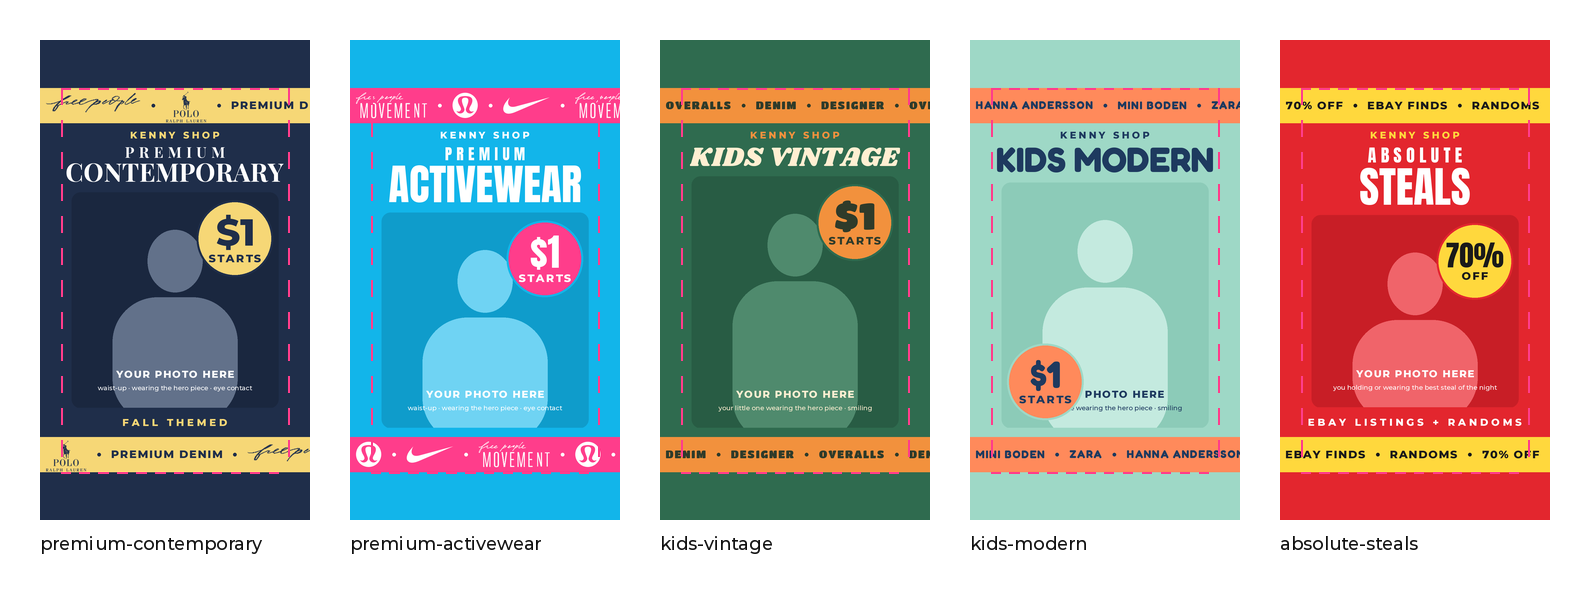
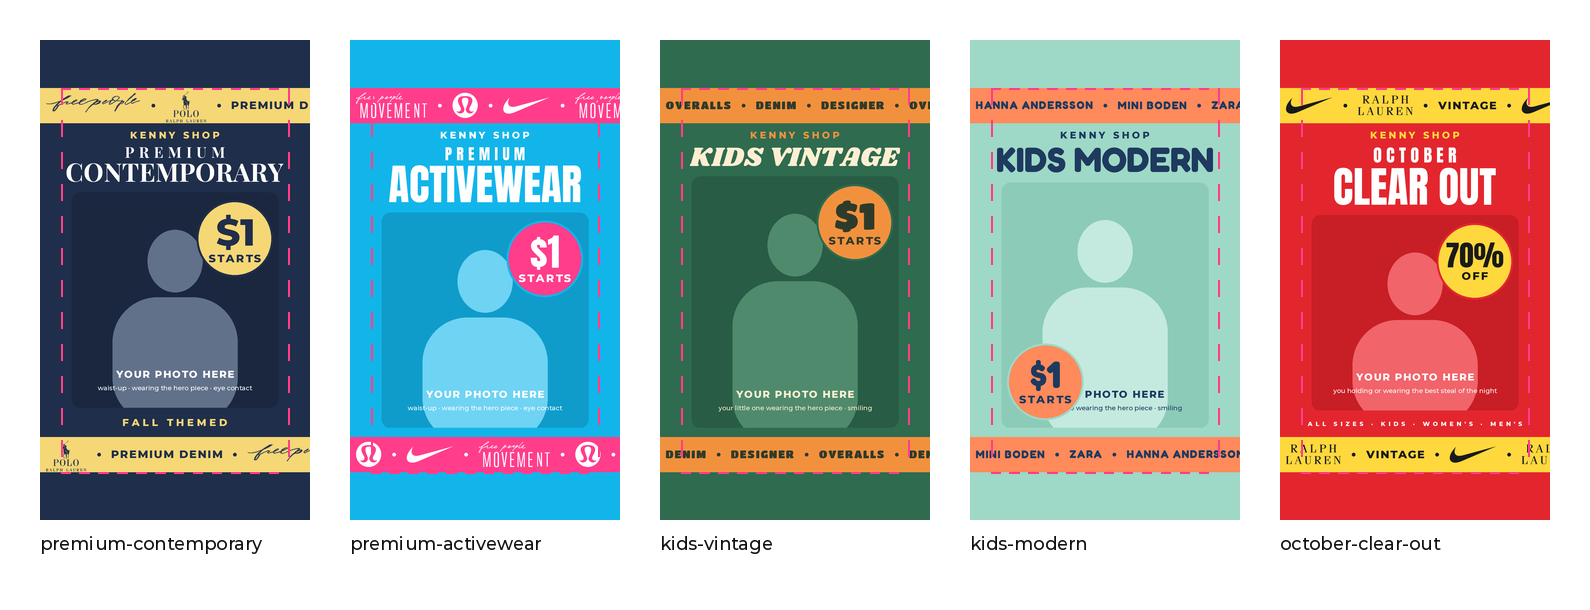
Rename 70%-off show to October Clear Out: Nike, Ralph Lauren, vintage, all sizes
Claude-Session: https://claude.ai/code/session_01Q51WZ95sB4G4SBq6JMRbx6

diff --git a/02-branding/whatnot-covers/make_covers.py b/02-branding/whatnot-covers/make_covers.py
@@ -69,15 +69,15 @@ SHOWS["kids-modern"] = dict(
     brands=["HANNA ANDERSSON", "MINI BODEN", "ZARA"],
     one_line=True, badge="bottom-left",  # keeps the $1 off her face
 )
-# Clearance show: eBay listings and randoms at 70% off.
-SHOWS["absolute-steals"] = dict(
+# October Clear Out: eBay listings and randoms at 70% off, all sizes.
+SHOWS["october-clear-out"] = dict(
     # clearance red + yellow, loud condensed type
     bg="#E3262E", ink="#FFFFFF", accent="#FFD83D", badge_ink="#1A1A1A", logo="#FFD83D",
     photo_bg="#C81E26", figure="#F0646A",
-    head_font=DISPLAY, head_scale=1.0, badge_font=DISPLAY, top="ABSOLUTE", main="STEALS",
+    head_font=DISPLAY, head_scale=1.0, badge_font=DISPLAY, top="OCTOBER", main="CLEAR OUT",
     top_size=70, badge_big="70%", badge_small="OFF", brand_font=SANS_B,
-    brands=["70% OFF", "EBAY FINDS", "RANDOMS"],
-    footer="EBAY LISTINGS + RANDOMS", footer_font=SANS_B, footer_size=44, footer_ink="#FFFFFF",
+    brands=["NIKE", "RALPH LAUREN", "VINTAGE"],
+    footer="ALL SIZES · KIDS · WOMEN'S · MEN'S", footer_font=SANS_B, footer_size=44, footer_ink="#FFFFFF",
     photo_hint="you holding or wearing the best steal of the night",
 )
 

diff --git a/02-branding/titles.md b/02-branding/titles.md
@@ -22,15 +22,15 @@ the cover so repeat buyers match them, and put the words buyers search for (bran
 | Kids Vintage, kids (`kids-vintage-kids`) | `$1 KIDS VINTAGE · 2T–16 · Overalls, Denim, Designer` |
 | Kids Modern, baby (`kids-modern-baby`) | `$1 KIDS MODERN · BABY NB–24M · Hanna Andersson, Mini Boden, Zara` |
 | Kids Modern, kids (`kids-modern-kids`) | `$1 KIDS MODERN · 2T–16 · Hanna Andersson, Mini Boden, Zara` |
-| Absolute Steals (`absolute-steals`) | `70% OFF ABSOLUTE STEALS · eBay Listings + Randoms` |
+| October Clear Out (`october-clear-out`) | `70% OFF OCTOBER CLEAR OUT · Nike, Ralph Lauren & Vintage · All Sizes` |
 
 Descriptions (list item types in plain words; swap in what's actually in the show):
 - **Kids Vintage, baby:** Vintage baby clothes, all $1 starts. Overalls, shortalls, denim jackets and jeans, and designer pieces. Sizes newborn to 24 months.
 - **Kids Vintage, kids:** Vintage kids' clothes, all $1 starts. Overalls, denim jackets and jeans, and designer pieces. Toddler and kids' sizes 2T–16.
 - **Kids Modern, baby:** Hanna Andersson, Mini Boden and Zara baby clothes, all $1 starts. Rompers, sets, dresses, sweaters and pajamas. Sizes newborn to 24 months.
 - **Kids Modern, kids:** Hanna Andersson, Mini Boden and Zara kids' clothes, all $1 starts. Dresses, sets, sweaters, jeans and pajamas. Toddler and kids' sizes 2T–16.
-- **Absolute Steals:** My eBay listings and random one-offs at 70% off my listed prices. Absolute steals: tops, jeans, dresses, activewear and more. (Swap in the item types and brands you're bringing.)
+- **October Clear Out:** My eBay listings and random one-offs at 70% off my listed prices. Nike, Ralph Lauren and vintage in all sizes: kids', women's and men's. Tops, sweatshirts, jeans, jackets and more.
 
-Brand tag: Hanna Andersson on both Kids Modern shows. Kids Vintage has no single main brand,
+Brand tag: Nike on October Clear Out. Hanna Andersson on both Kids Modern shows. Kids Vintage has no single main brand,
 so tag the biggest brand in that night's show. Category: the kids/baby clothing
 subcategory, not general fashion. **[Whatnot]**

diff --git a/02-branding/thumbnail-maker.md b/02-branding/thumbnail-maker.md
@@ -73,16 +73,16 @@ whole outfit fits. Each kids show has two covers, one per size run, with the siz
 `kids-vintage-baby`, `kids-vintage-kids`, `kids-modern-baby`, `kids-modern-kids`.
 To use a different photo, put it in `photos/` and change `KID_PHOTOS` in `make_covers.py`.
 
-### Absolute Steals: 70% off clearance
-- For running eBay listings and randoms at 70% off.
-- Colors: clearance red `#E3262E` · white `#FFFFFF` (headline, footer) · yellow `#FFD83D` (runners, Kenny Shop, badge) · near-black `#1A1A1A` (runner and badge text)
+### October Clear Out: 70% off clearance
+- For running eBay listings and randoms at 70% off, all sizes (kids, women's, men's).
+- Colors: clearance red `#E3262E` · white `#FFFFFF` (headline, footer) · yellow `#FFD83D` (runners, Kenny Shop, badge) · near-black `#1A1A1A` (runner logos and badge text)
 - Fonts: Anton for the headline and "70%", Montserrat ExtraBold for everything else
-- Text: `ABSOLUTE STEALS` · badge `70% OFF` · `EBAY LISTINGS + RANDOMS` · runners: `70% OFF` · `EBAY FINDS` · `RANDOMS`
+- Text: `OCTOBER CLEAR OUT` · badge `70% OFF` · `ALL SIZES · KIDS · WOMEN'S · MEN'S` · runners: Nike logo · Ralph Lauren logo · `VINTAGE`
 - Photo: you holding or wearing the best steal of the night
 
 ## Templates
 - Main cover photo (blank templates): `whatnot-covers/premium-contemporary.png`, `whatnot-covers/premium-activewear.png`,
-  `whatnot-covers/kids-vintage.png`, `whatnot-covers/kids-modern.png`, `whatnot-covers/absolute-steals.png`
+  `whatnot-covers/kids-vintage.png`, `whatnot-covers/kids-modern.png`, `whatnot-covers/october-clear-out.png`
 - Finished covers with your photos: `whatnot-covers/final/` (includes `premium-contemporary-2.png`, a second Contemporary cover with no fall line and Free People · Anthropologie · Aritzia in the runners; Anthropologie and Aritzia show as text until their logo files are added). These and the photos in
   `whatnot-covers/photos/` stay on this computer only and are kept out of git, because the repo is public.
 - Feed-size check: `whatnot-covers/preview-feed-size.png`
